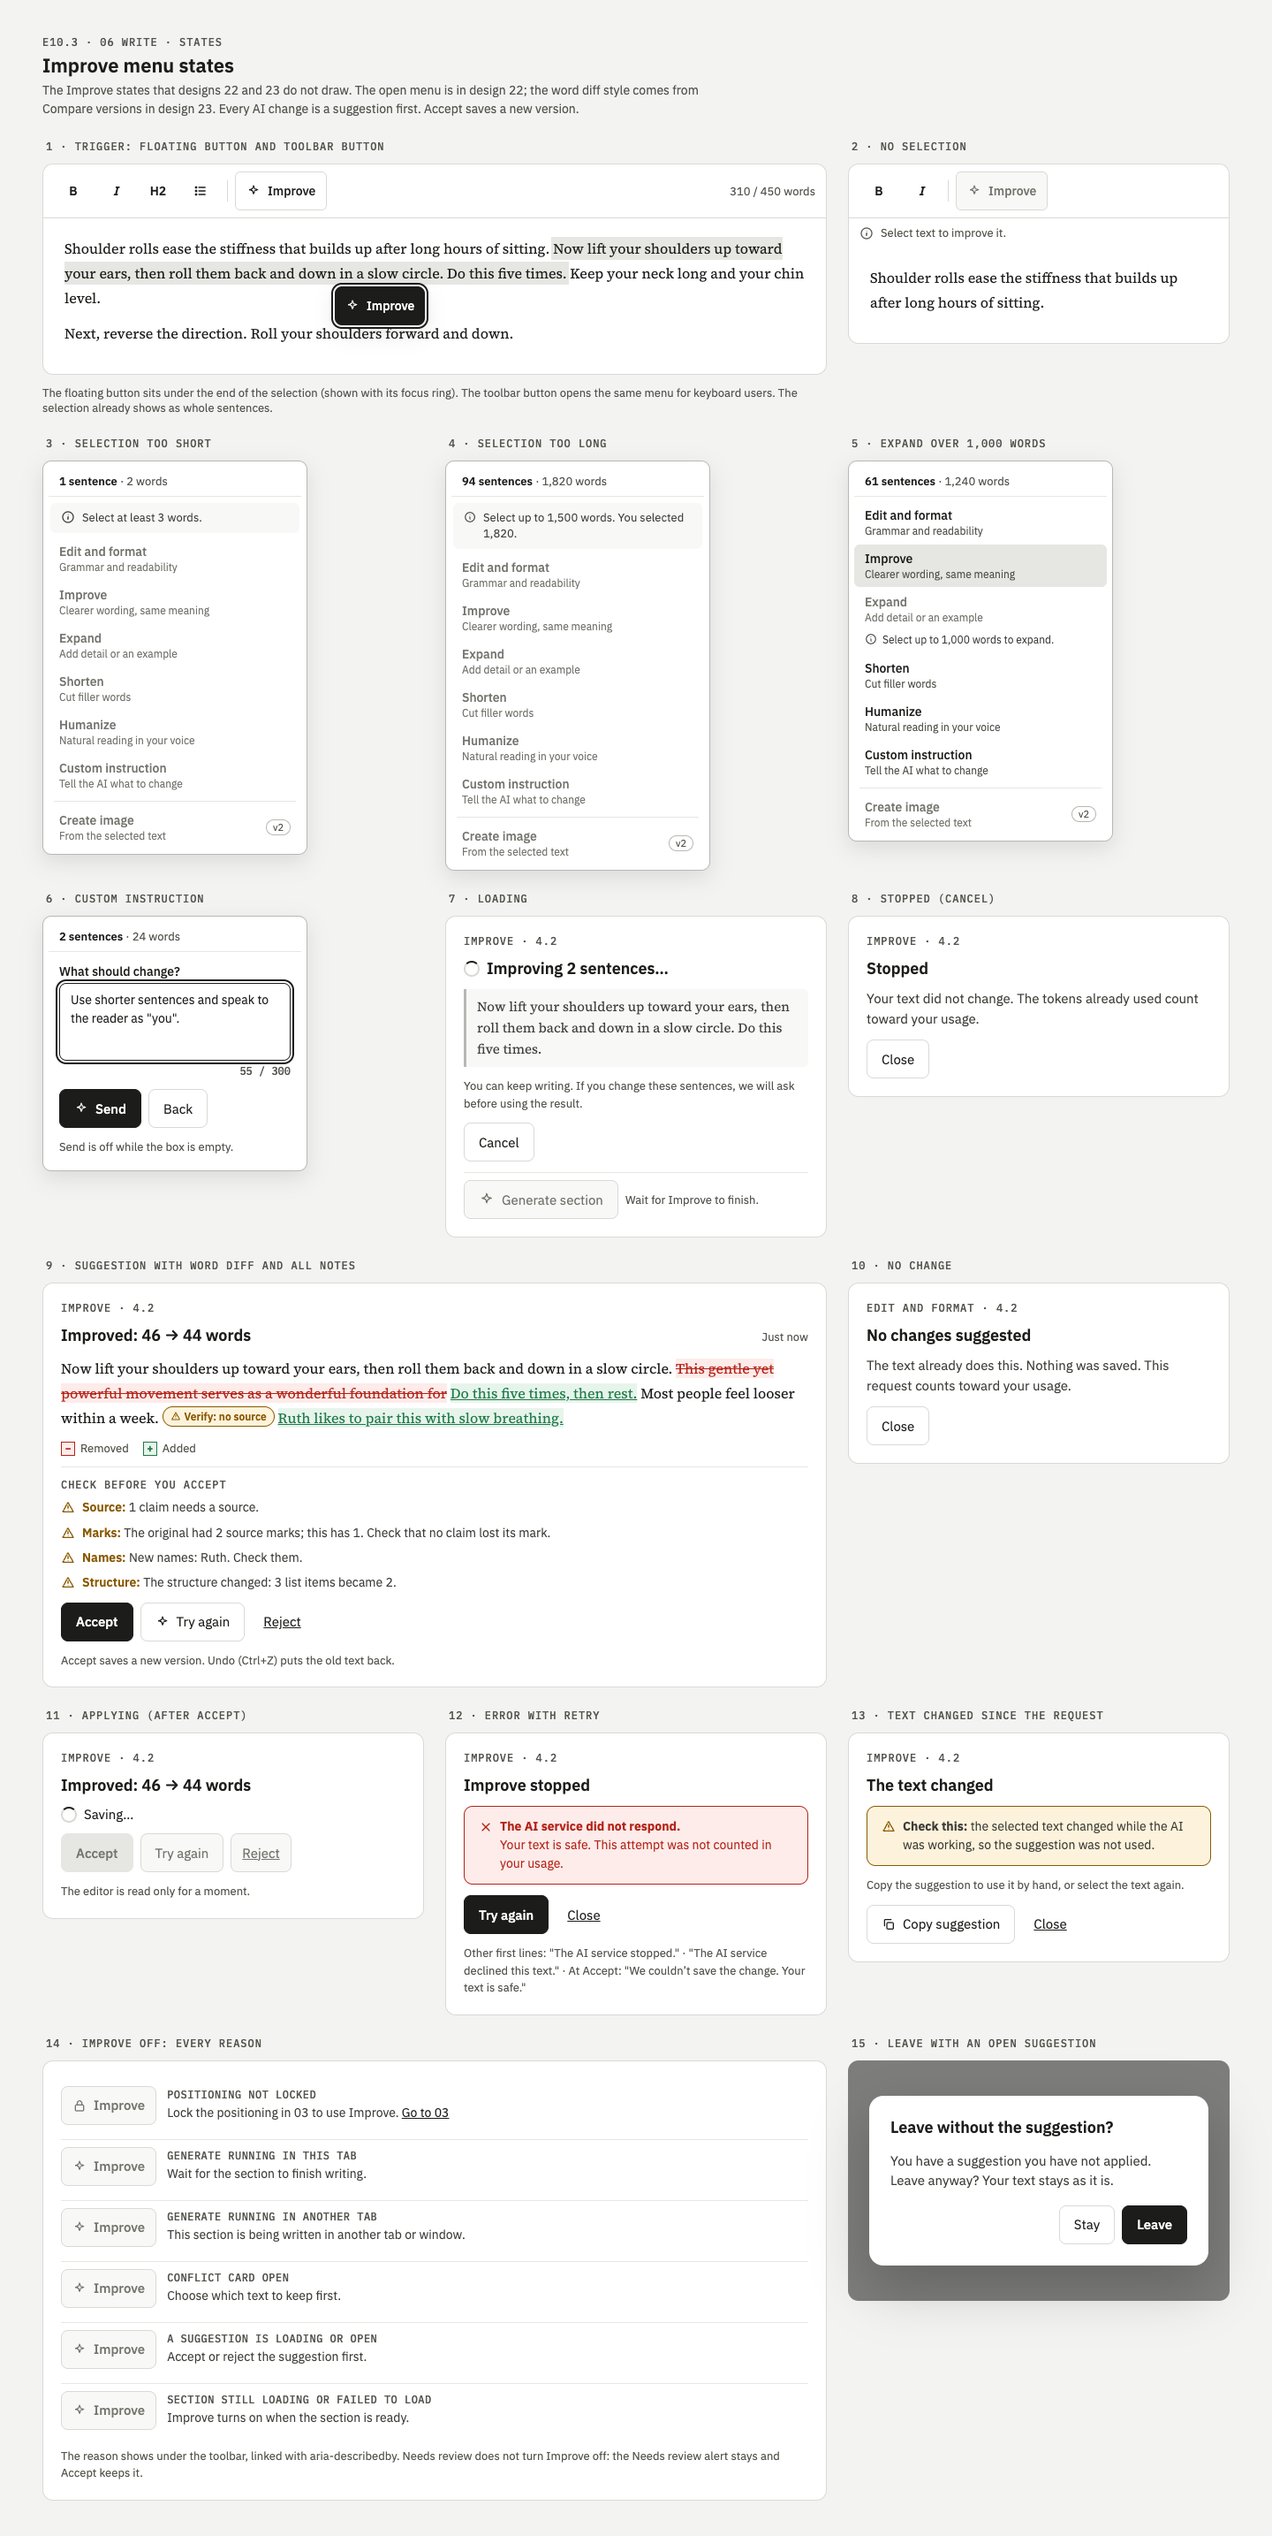
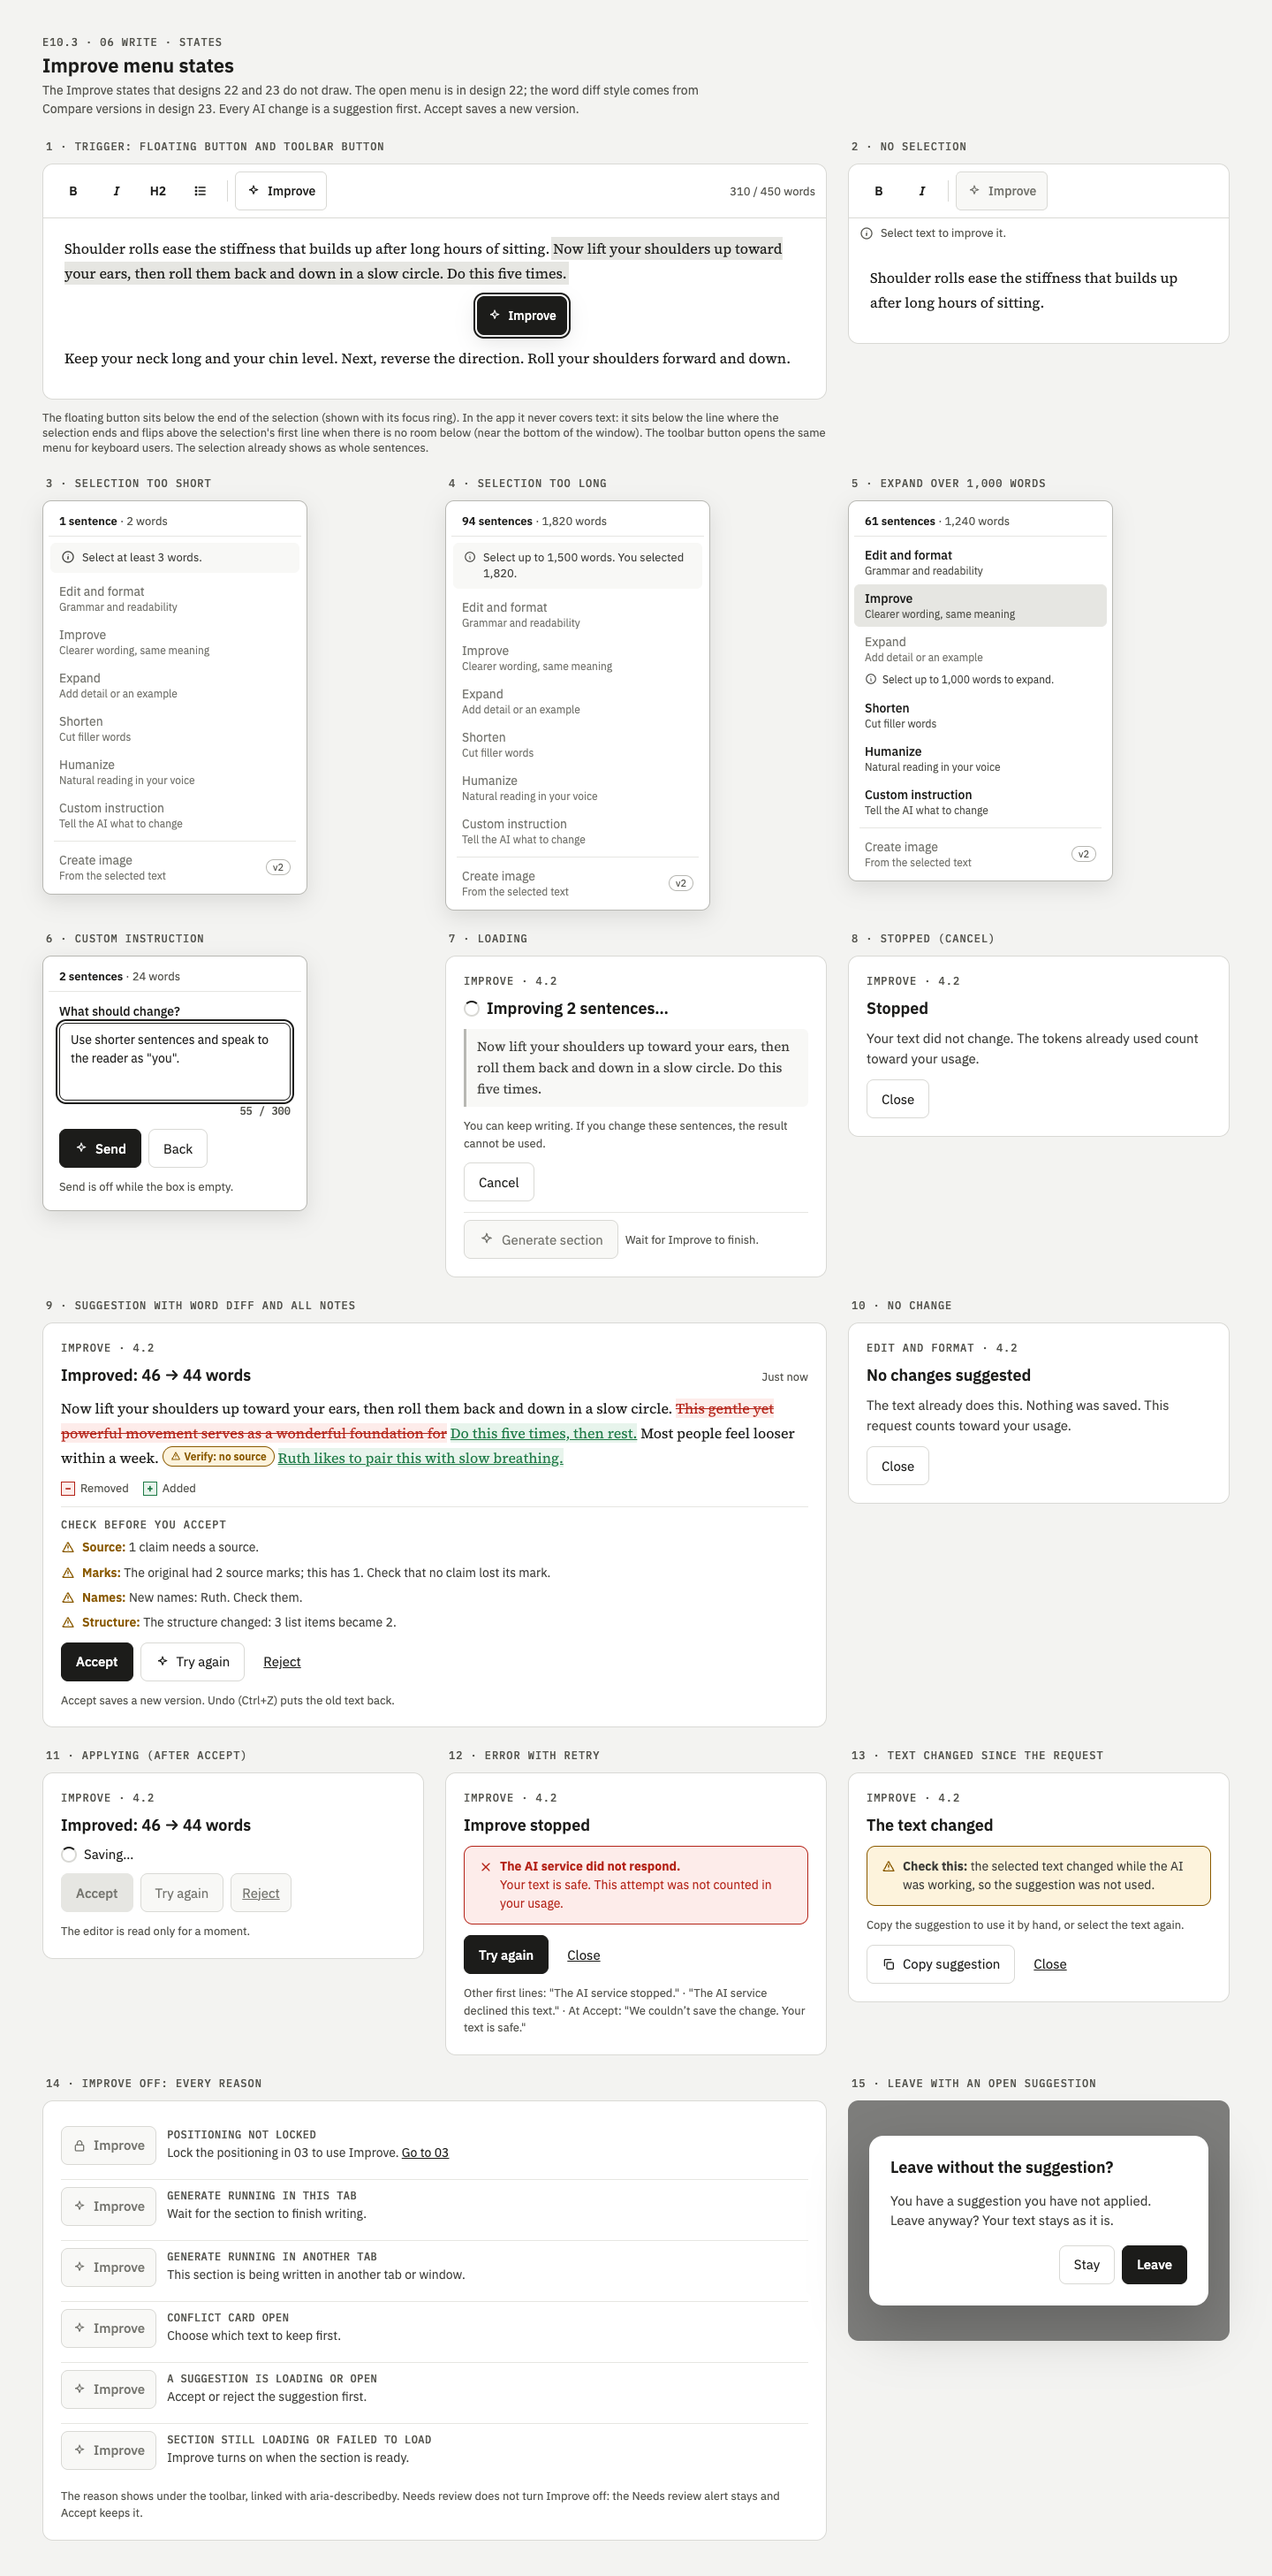
Design 22b: owner fixes (loading copy, muted off items, floating button)
- Loading card: "If you change these sentences, the result cannot be used."
- States 3 and 4: off items muted (aria-disabled, --muted), like Create image.
- Floating button sits below the selection end and covers no words; note
  that it flips above when there is no room below. PNGs re-shot.

diff --git a/design/screens/22b-improve-states.html b/design/screens/22b-improve-states.html
@@ -58,6 +58,8 @@
   .float { position: absolute; display: inline-flex; align-items: center; gap: var(--space-2); min-height: var(--control-h);
            padding: 0 var(--space-3); border-radius: var(--radius-md); background: var(--ink); color: var(--surface);
            border: none; font-family: var(--font-ui); font-size: var(--text-md); font-weight: 500; box-shadow: var(--shadow-menu); }
+  .float-slot { position: relative; height: calc(var(--control-h) + var(--space-3)); }
+  .float-slot .float { position: absolute; top: 0; }
   .hint { display: flex; gap: var(--space-2); align-items: center; font-size: var(--text-sm); color: var(--graphite); padding: var(--space-2) var(--space-3); }
   .tip { position: absolute; background: var(--ink); color: var(--surface); font-size: var(--text-sm); padding: var(--space-2) var(--space-3);
          border-radius: var(--radius-sm); white-space: nowrap; }
@@ -73,7 +75,9 @@
   .mi .t { font-size: var(--text-md); font-weight: 500; }
   .mi .s { font-size: var(--text-xs); color: var(--graphite); }
   .mi.is-active { background: var(--mist); }
-  .mi[aria-disabled="true"] .t, .mi[aria-disabled="true"] .s { color: var(--muted); }
+  .mi[aria-disabled="true"] { cursor: default; }
+  .mi[aria-disabled="true"] .t { color: var(--muted); font-weight: 400; }
+  .mi[aria-disabled="true"] .s { color: var(--muted); }
   .mi-why { font-size: var(--text-xs); color: var(--ink-2); padding: 2px var(--space-3) var(--space-2); display: flex; gap: 6px; align-items: flex-start; }
   .menu-sep { height: 1px; background: var(--mist); margin: var(--space-1) 6px; }
   .pill { font-size: 11px; padding: 1px 7px; border: 1px solid var(--stone-2); border-radius: var(--radius-pill); color: var(--graphite); }
@@ -164,12 +168,12 @@
         <span class="words">310 / 450 words</span>
       </div>
       <div class="text">
-        <p>Shoulder rolls ease the stiffness that builds up after long hours of sitting. <span class="sel">Now lift your shoulders up toward your ears, then roll them back and down in a slow circle. Do this five times.</span> Keep your neck long and your chin level.</p>
-        <p>Next, reverse the direction. Roll your shoulders forward and down.</p>
+        <p>Shoulder rolls ease the stiffness that builds up after long hours of sitting. <span class="sel">Now lift your shoulders up toward your ears, then roll them back and down in a slow circle. Do this five times.</span></p>
+        <div class="float-slot"><button class="float is-focus" id="float1" aria-haspopup="menu"><svg width="16" height="16"><use href="#sparkle"/></svg>Improve</button></div>
+        <p>Keep your neck long and your chin level. Next, reverse the direction. Roll your shoulders forward and down.</p>
       </div>
-      <button class="float is-focus" style="left: 330px; top: 138px" aria-haspopup="menu"><svg width="16" height="16"><use href="#sparkle"/></svg>Improve</button>
     </div>
-    <p class="small" style="margin:0">The floating button sits under the end of the selection (shown with its focus ring). The toolbar button opens the same menu for keyboard users. The selection already shows as whole sentences.</p>
+    <p class="small" style="margin:0">The floating button sits below the end of the selection (shown with its focus ring). In the app it never covers text: it sits below the line where the selection ends and flips above the selection's first line when there is no room below (near the bottom of the window). The toolbar button opens the same menu for keyboard users. The selection already shows as whole sentences.</p>
   </section>
 
   <!-- 2. No selection -->
@@ -263,7 +267,7 @@
       <span class="label">Improve · 4.2</span>
       <div class="row"><span class="spin" aria-hidden="true"></span><h2>Improving 2 sentences…</h2></div>
       <div class="passage">Now lift your shoulders up toward your ears, then roll them back and down in a slow circle. Do this five times.</div>
-      <p class="small">You can keep writing. If you change these sentences, we will ask before using the result.</p>
+      <p class="small">You can keep writing. If you change these sentences, the result cannot be used.</p>
       <div class="row"><button class="btn">Cancel</button></div>
       <div class="row" style="padding-top: var(--space-2); border-top: 1px solid var(--mist)">
         <button class="btn" disabled><svg width="18" height="18"><use href="#sparkle"/></svg>Generate section</button>
@@ -386,5 +390,17 @@
     </div>
   </section>
 </main>
+<script>
+  // Mock only: put the floating button under the end of the selection, inside
+  // the gap below the paragraph, so it covers no words at any width.
+  (function place() {
+    var sel = document.querySelector('.ed .sel'), btn = document.getElementById('float1');
+    var rects = sel.getClientRects(), end = rects[rects.length - 1];
+    var box = btn.parentElement.getBoundingClientRect();
+    var left = Math.max(0, Math.min(end.right - box.left - btn.offsetWidth, box.width - btn.offsetWidth));
+    btn.style.left = left + 'px';
+    window.addEventListener('resize', place, { once: true });
+  })();
+</script>
 </body>
 </html>
